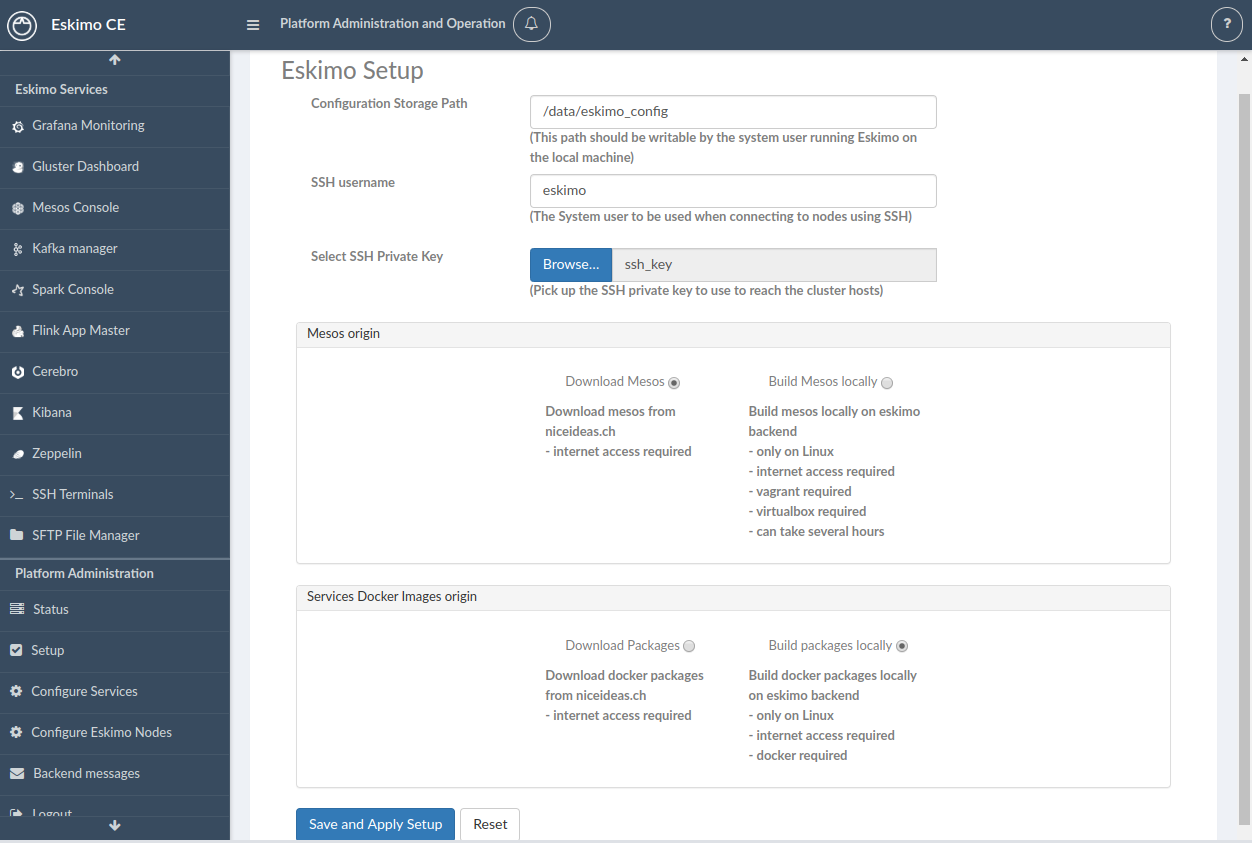
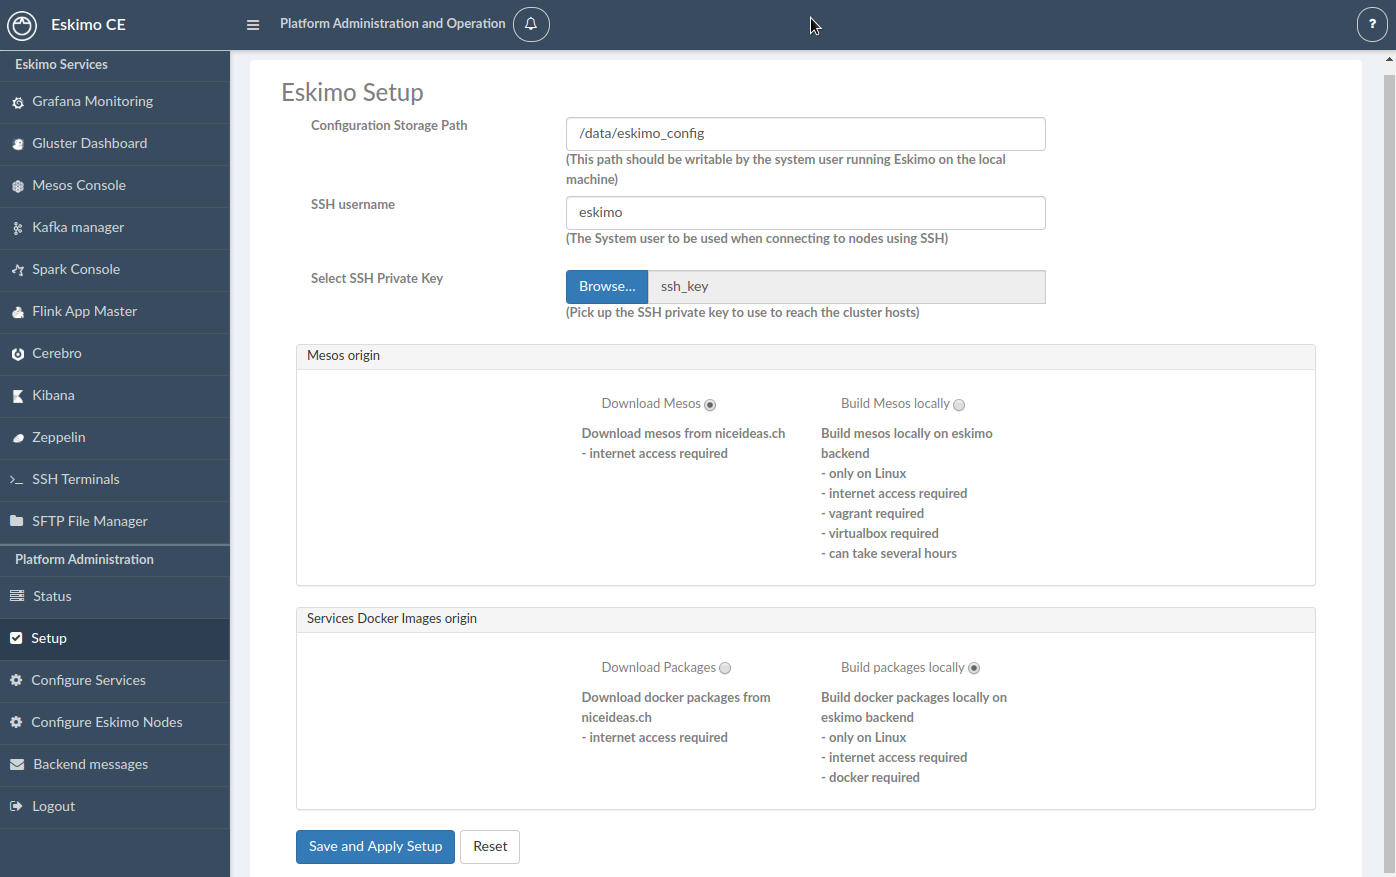
Fixed layout issue (CSS), updated screenshots to latest 0.2 version

diff --git a/src/main/webapp/css/hoe.css b/src/main/webapp/css/hoe.css
@@ -269,7 +269,8 @@ body{position:relative;}
     border-top: 1px solid #efefef;
     color: #000;
 }
-#hoe-left-panel .panel-list > li > a > i {
+#hoe-left-panel .panel-list > li > a > i,
+#hoe-left-panel .panel-list > li > a > span {
     display: inline;
     font-size: 14px;
     padding-right: 6px;
@@ -493,7 +494,8 @@ body{position:relative;}
 .hoe-minimized-lpanel #hoe-left-panel .panel-list > li.hoe-has-menu > a:after {
     display: none;
 }
-.hoe-minimized-lpanel #hoe-left-panel .panel-list > li > a > i {
+.hoe-minimized-lpanel #hoe-left-panel .panel-list > li > a > i,
+.hoe-minimized-lpanel #hoe-left-panel .panel-list > li > a > span {
     display: inline;
     font-size: 15px;
     padding-left: 6px;
